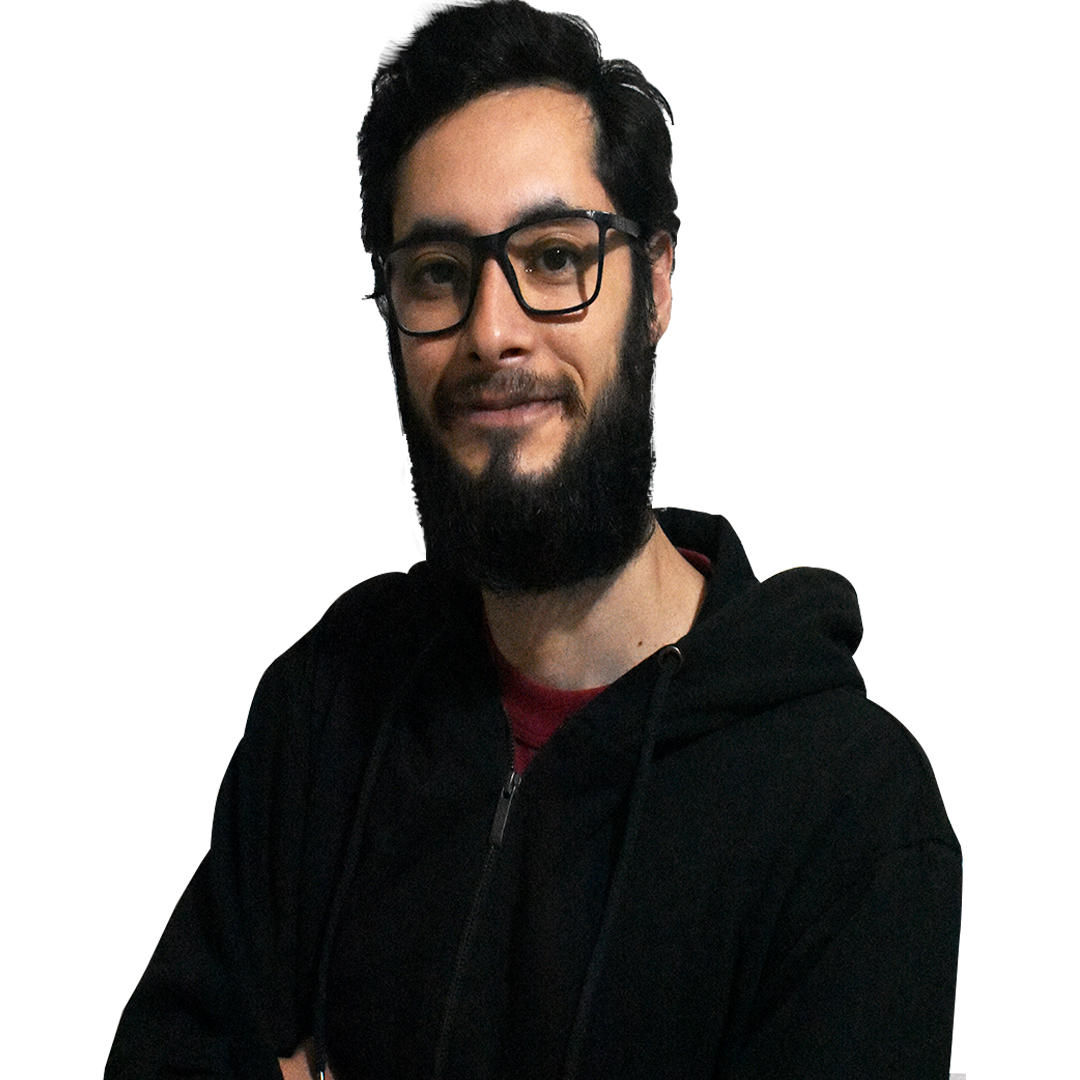
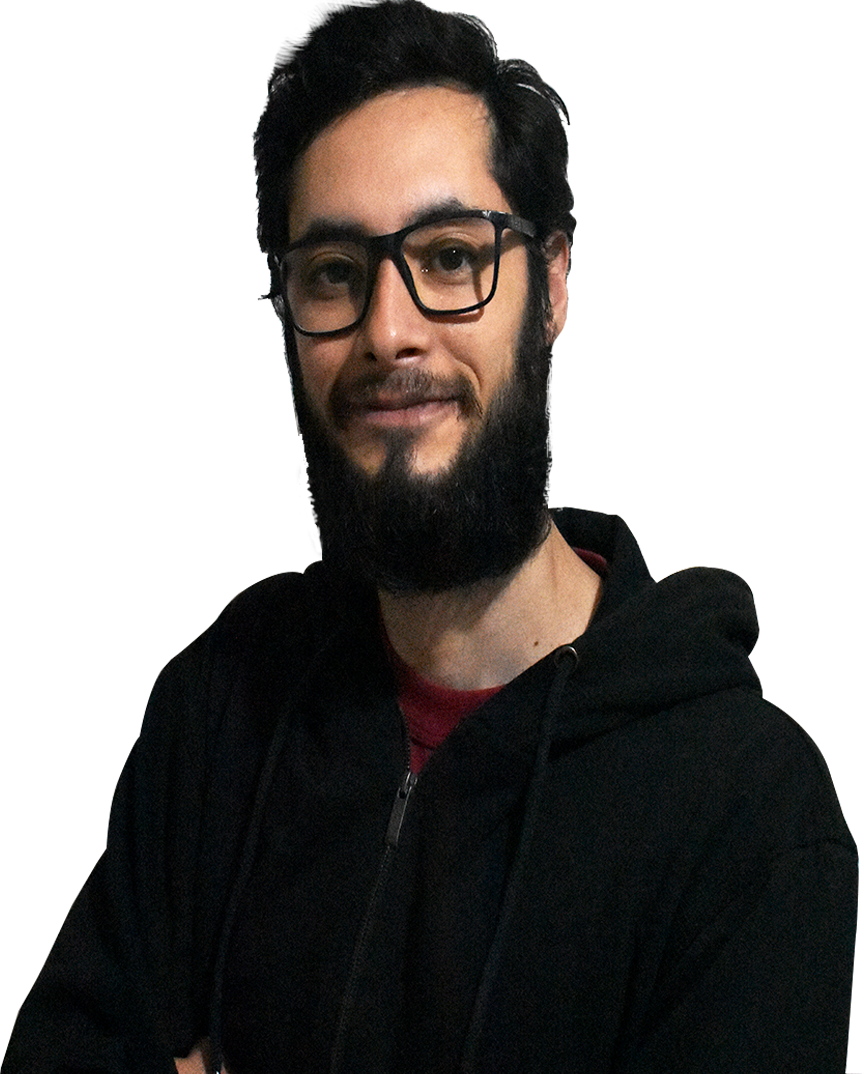
practicamente terminado

diff --git a/styles.css b/styles.css
@@ -39,20 +39,19 @@ body {
     "servicios"
     "formulario"
     "footer";
-  overflow: hidden;
 }
 
 .intro {
   grid-area: intro;
   background-image: url("./img/Mask\ Group.png");
   height: 100vh;
-  background-color: var(--blanco);
+  background-color: white;
+  padding: 3.25vh 3.25vh 0 3.25vh;
 }
 
 .intro nav {
   width: 100%;
-  height: 13vh;
-  padding: 0 20px;
+  height: 14vh;
   display: flex;
   justify-content: space-between;
   align-items: center;
@@ -60,13 +59,13 @@ body {
 
 .logoP img {
   height: 80px;
-  width: 80px;
+  width: auto;
+  margin-top: 10px;
 }
 
-.nav .burger {
+nav .burger {
   height: 36px;
   width: 36px;
-  left: -50px;
 }
 
 .navegacion {
@@ -75,34 +74,34 @@ body {
 
 .banner {
   text-align: center;
-  height: 87vh;
+  height: 86vh;
   display: flex;
   flex-direction: column;
   justify-content: space-between;
 }
 
 .banner h1 {
-  width: 75%;
+  width: auto;
   height: auto;
-  font-size: 46px;
+  font-size: var(--size-titulos);
   font-weight: 700;
   font-family: var(--titulos), sans-serif;
   text-align: center;
-  line-height: 45px;
-  margin: 120px auto 0 auto;
+  line-height: 48px;
+  margin: auto;
 }
 
 .banner img {
-  height: auto;
-  width: 90%;
-  margin-bottom: -5px;
+  height: 48vh;
+  width: auto;
+  margin: 0 auto;
 }
 
 .sobreMi {
   grid-area: sobreMi;
-  height: 80vh;
+  height: 87vh;
   width: 100%;
-  padding: 50px;
+  padding: 8.92vh 8.53% 11.03vh 8.53%;
   font-size: 1.2em;
   color: white;
   background-color: black;
@@ -124,31 +123,52 @@ body {
   font-size: var(--size-contenido);
   font-weight: 400;
   margin: 9vh auto;
-  text-align: center;
+  text-align: left;
+}
+
+.sobreMi img {
+  width: 13vh;
+  height: 13vh;
+  margin: 0 auto;
 }
 
 .servicios {
   grid-area: servicios;
-  height: auto;
+  height: 1375px;
   width: 100%;
   background-color: var(--casi-blanco);
   text-align: center;
   display: flex;
   flex-direction: column;
-  justify-content: space-evenly;
+  justify-content: space-between;
   align-items: center;
-  padding: 9vh 20vw;
+  padding: 11.32vh 13.86% 10.71vh 13.86%;
   background-color: var(--blanco);
-}
-
-.servicios--item {
-  margin-top: 8vh;
 }
 
 .servicios--title {
   color: var(--casi-negro);
   font-family: var(--titulos);
   font-size: var(--size-sub-titulos);
+  height: 9vh;
+  width: 100%;
+}
+
+.servicios--lista {
+  width: 100%;
+  height: 185vh;
+  display: flex;
+  flex-direction: column;
+  justify-content: space-between;
+  padding-top: 7.79vh;
+}
+
+.servicios--item {
+  height: 48vh;
+  display: flex;
+  flex-direction: column;
+  justify-content: space-between;
+  align-items: center;
 }
 
 .servicios--item-h {
@@ -159,21 +179,20 @@ body {
 
 .servicios--item-p {
   color: var(--casi-negro);
-  margin-top: 2vh;
   font-family: var(--contenido);
   font-size: var(--size-contenido);
   font-weight: 400;
-  line-height: 18px;
+  padding: 0 13px;
 }
 
-.lista--item img {
-  height: 90px;
-  width: auto;
+.servicios--item img {
+  height: auto;
+  width: 36.8vw;
 }
 
 .formulario {
   grid-area: formulario;
-  height: 100vh;
+  height: 107vh;
   width: 100%;
   background-color: #000;
   text-align: center;
@@ -192,16 +211,16 @@ body {
 
 .formulario input,
 .formulario textarea {
-  width: 100%;
+  width: 90vw;
   height: 50px;
   border: solid 3px var(--casi-negro);
+  border-radius: 4px;
 }
 
 .formulario textarea {
   min-height: 120px;
   max-height: 240px;
-  min-width: 375px;
-  max-width: 90vw;
+  width: 90vw;
 }
 
 #boton {
@@ -229,34 +248,71 @@ body {
 
 footer {
   grid-area: footer;
-  height: 40vh;
+  height: 80vh;
   width: 100%;
   color: black;
-  background-color: var(--negro);
+  background-color: var(--casi-negro);
+  padding: 8.6vh 20px 18.34vh 20px;
+  display: flex;
+  flex-direction: column;
+  justify-content: space-between;
+  align-items: flex-start;
 }
 
-.lista--item {
-  vertical-align: middle;
+.logoPersonal {
+  background-color: green;
+  display: flex;
+  flex-direction: column;
+  width: 35vw;
+}
+
+.logoPersonal img {
+  height: auto;
+  width: 14vw;
+}
+
+#huella {
+  font-family: var(--contenido);
+  font-size: 13px;
+  margin-top: 20px;
+  background-color: var(--casi-negro);
+}
+
+.listaDeLinksARedesDeContacto {
+  background-color: chartreuse;
+}
+
+.listaDeLinksARedesDeContacto--list {
+  list-style: none;
+}
+
+.listaRedes--item {
+  font-size: var(--contenido);
+  font-family: var(--contenido);
 }
 
 .listaRedes--item img {
-  height: 60px;
-  width: auto;
+  height: auto;
+  width: 4.5vw;
 }
 
 @media screen and (min-width: 800px) {
   .intro {
-    height: 616px;
-    padding: 20px 80px 0 80px;
+    height: 68.4vh;
+    padding: 0 80px;
     display: flex;
     flex-direction: column;
     justify-content: space-between;
   }
 
+  .nav {
+    background-color: coral;
+    justify-content: center;
+  }
+
   .logoP img {
     height: 110px;
     width: auto;
-    margin-left: -47px;
   }
 
   .burger {
@@ -264,17 +320,17 @@ footer {
   }
 
   .navegacion {
-    min-width: 438px;
+    min-width: 30.8vw;
     display: flex;
     justify-content: space-between;
     list-style: none;
-    margin-right: -15px;
+    background-color: aquamarine;
   }
 
   .navegacion a {
     color: var(--negro);
     font-family: var(--titulos);
-    font-size: var(--size-sub-sub-titulos);
+    font-size: 1.2em;
     text-decoration: none;
   }
 
@@ -283,24 +339,30 @@ footer {
   }
 
   .banner {
-    height: 47vh;
+    height: auto;
     flex-direction: row;
-    justify-content: center;
-    padding-bottom: 0;
-    margin-bottom: 0;
+    justify-content: space-between;
+    align-items: flex-start;
+    background-color: #4bd1b1;
+    padding: 0;
   }
 
   .banner h1 {
     text-align: left;
+    background-color: #ffd953;
+    margin: 0;
   }
 
   .banner img {
+    margin: 0;
     height: auto;
-    width: 30vw;
+    width: 20vw;
+    background-color: #ffd953;
+    margin-right: 5vw;
   }
 
   .sobreMi {
-    height: 538px;
+    height: 59vh;
     display: flex;
     flex-direction: row-reverse;
     justify-content: center;
@@ -324,7 +386,7 @@ footer {
   }
 
   .servicios {
-    height: 604px;
+    height: 67vh;
     padding: 59px 80px 108px 80px;
     justify-content: space-between;
   }
@@ -337,6 +399,7 @@ footer {
   .servicios--lista {
     width: 100%;
     display: flex;
+    flex-direction: row;
     justify-content: space-between;
   }
 
@@ -356,7 +419,7 @@ footer {
 
   .formulario {
     background: var(--negro);
-    height: 660px;
+    height: 107.14vh;
     display: flex;
     flex-direction: row;
     justify-content: center;
@@ -381,17 +444,18 @@ footer {
     min-height: 45px;
     border-radius: 4px;
     margin-bottom: 11px;
+    width: 375px;
   }
 
   #GET-email {
     margin-top: 0;
     margin-bottom: 0px;
     border-radius: 4px;
+    width: 375px;
   }
 
   form textarea {
     max-width: 375px;
-    max-height: 107px;
     border-radius: 4px;
     margin-bottom: 60px;
   }

diff --git a/index.html b/index.html
@@ -18,7 +18,7 @@
   <body>
     <div class="grid-container">
       <div class="intro">
-        <nav>
+        <nav class="nav">
           <div class="logoP">
             <img src="./img/logo.png" alt="logo de la empresa - Pablo Murillo" />
           </div>
@@ -34,7 +34,7 @@
           />
         </nav>
         <div class="banner">
-          <h1>Bienvenidxs <br>a mi Site</h1>
+          <h1>Bienvenidxs <br>a mi site</h1>
           <img src="./img/yo-mod3.png" alt="el mismisimo yo XD" />
         </div>
       </div>
